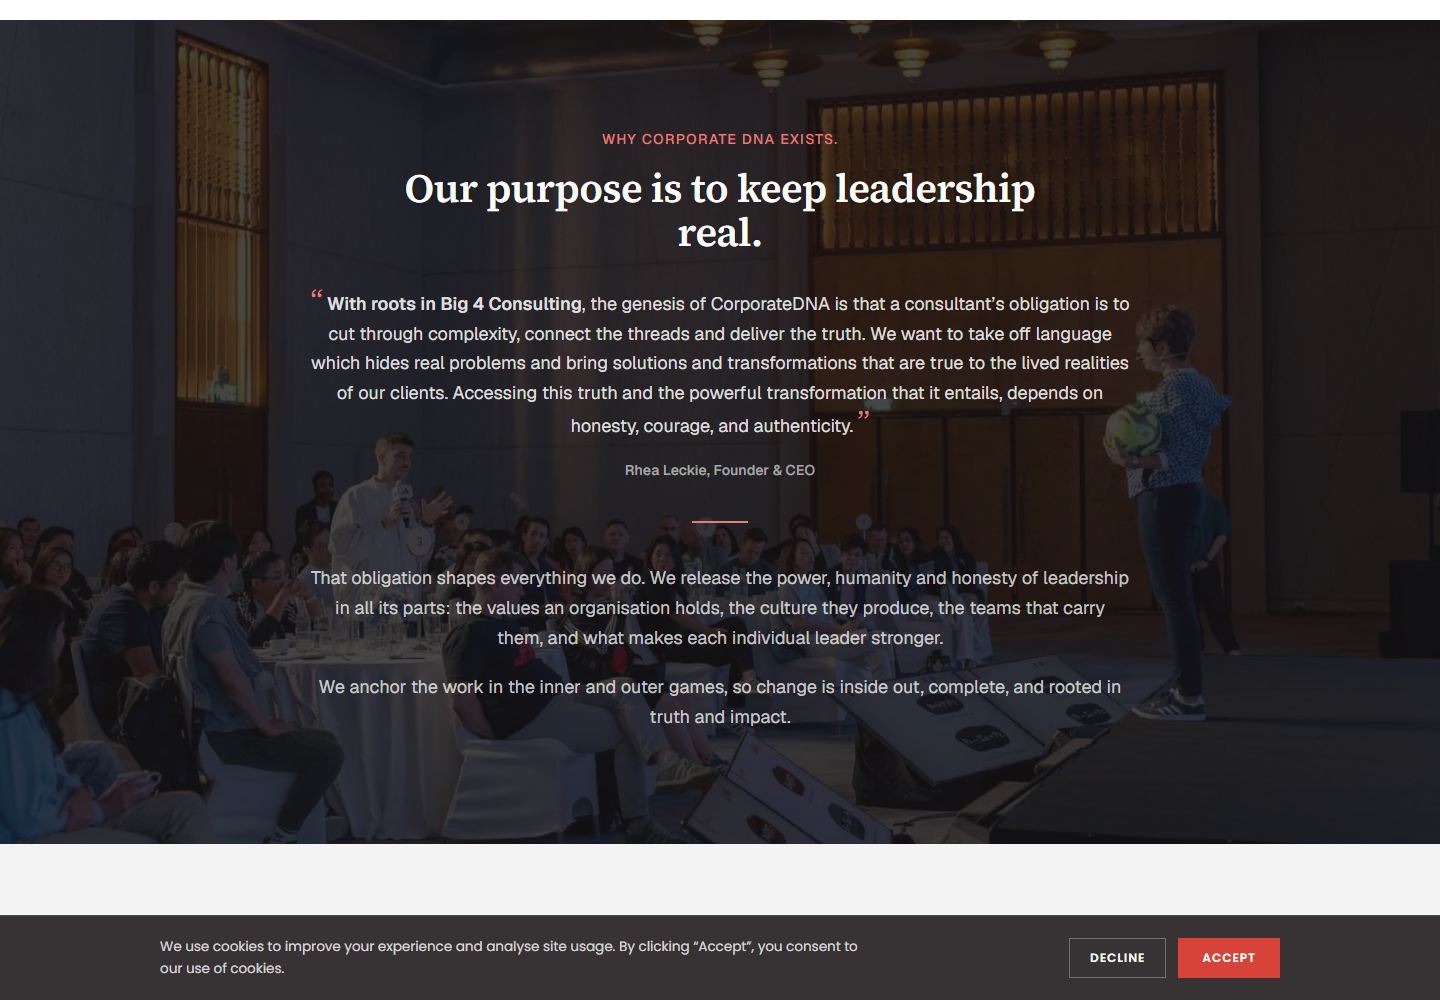
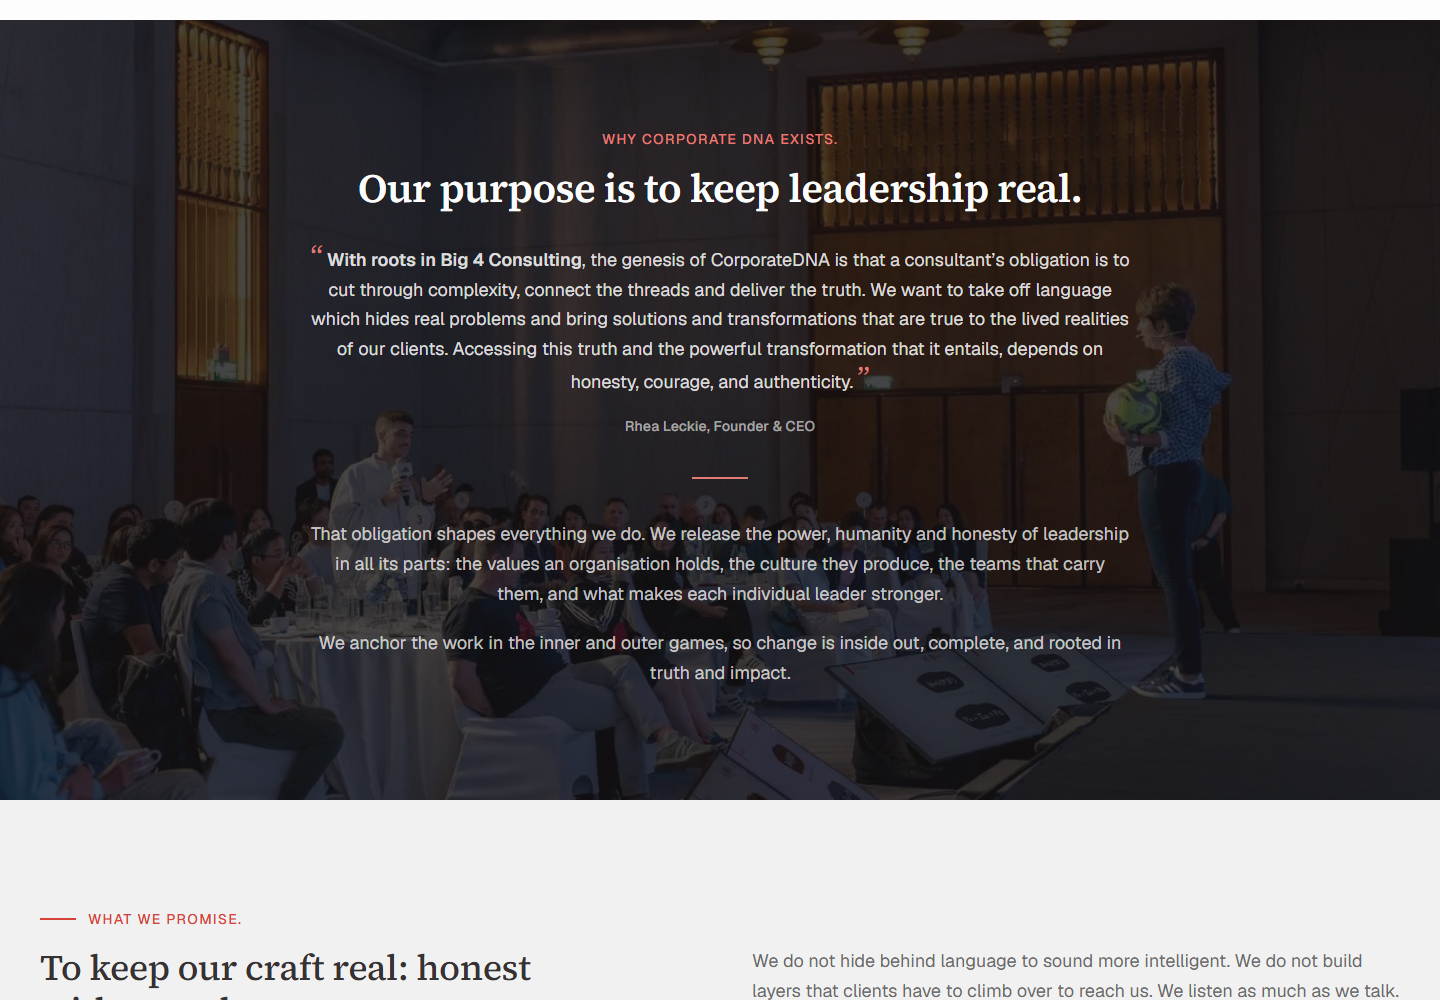
feat(about-v2): the page ends on the team, in the dark, and the purpose title holds one line
Three client changes from the end of 09-09.

The purpose title stops breaking. Measured, the sentence needs 744px on one
line and the h2 was capped at 720 — it broke by 24 pixels and left "real."
alone on the second line. The cap goes to 820px, which is the container's full
width, and the last two words are tied with whitespace-nowrap so the screens
that still wrap take two words down rather than one. One line from 1024 up.

The team section goes dark, and inherits the ending. Its eyebrow switches to
the light red: brand on ink is 2.87:1, below even the 3:1 bar for large text,
and no background fixes it. The outlined button inverts with it.

The closing band is removed. It carried "Let's make leadership real." and the
"Get in touch" button, and it was built from the client's own full-page image.
Worth naming plainly because nobody will remember later: About is now the only
page on the site that ends without a contact call. The Services outline records
that the shared band runs on every other page. Contact is still reachable — the
line at the foot of the offices, the button in the menu — it just stopped being
the last thing the page says.

The outline's own Block 7 still has not arrived; all that ever came of it was a
field list with no copy. The note left in its place says where it goes if it
turns up.

The Guli sheet is brought back in line: it was describing dark pillars, the
purpose glass panel, a single-column promise and a closing band, none of which
[…]

diff --git a/app/about-v2/page.tsx b/app/about-v2/page.tsx
@@ -1947,19 +1947,19 @@ export default async function AboutV2Page() {
           BOTÃO DE CONTORNO, não sólido. O sólido vermelho é da faixa logo
           abaixo, que é a ação principal. Dois preenchidos seguidos anulam a
           hierarquia — este é o caminho lateral, aquele é o convite. */}
-      <section id="people" className="bg-white">
+      <section id="people" className="bg-ink text-white">
         <div className="mx-auto max-w-[1440px] px-6 py-16 md:px-10 md:py-20">
-          <TypeLabel>The people behind it</TypeLabel>
-          <h2 className="max-w-[680px] font-serif text-[30px] font-medium leading-[1.15] tracking-[-0.6px] text-ink md:text-[38px]">
+          <TypeLabel onDark>The people behind it</TypeLabel>
+          <h2 className="max-w-[680px] font-serif text-[30px] font-medium leading-[1.15] tracking-[-0.6px] text-white md:text-[38px]">
             Identity is what the team does under pressure.
           </h2>
-          <p className="mt-5 max-w-[620px] text-[17px] leading-[1.7] text-muted">
+          <p className="mt-5 max-w-[620px] text-[17px] leading-[1.7] text-white/70">
             Our leadership, our global faculty and the regions we deliver from
             now have an area of their own.
           </p>
           <Link
             href="/our-team"
-            className="group mt-8 inline-flex items-center gap-2 border border-ink px-7 py-3.5 text-[16px] font-medium text-ink transition-colors hover:bg-ink hover:text-white"
+            className="group mt-8 inline-flex items-center gap-2 border border-white/45 px-7 py-3.5 text-[16px] font-medium text-white transition-colors hover:border-white hover:bg-white hover:text-ink"
           >
             Meet the team
             {/* Mesma seta de 4px no hover dos outros dois botões da página. */}
@@ -1973,38 +1973,22 @@ export default async function AboutV2Page() {
         </div>
       </section>
 
-      {/* ── Block 7 · Fecho ───────────────────────────────────────────
-          O outline diz "seven blocks" e descreve seis: o corpo do sétimo não
-          veio no arquivo, sobrou só a linha de campos de CMS
-          (`repeatable link_card { heading, body, cta_label, cta_url }`), que
-          descreve cards de navegação e não a faixa da imagem.
+      {/* ⚠ A FAIXA DE FECHO SAIU em 09-09, a pedido do cliente. Era o Block 7:
+          fundo escuro, "Let’s make leadership real." e um botão "Get in touch".
 
-          Montado como está na imagem — assinatura, frase e um botão — porque é
-          a única versão do bloco que o cliente mandou. O `link_card` fica de
-          fora até o texto do bloco 7 chegar. */}
-      <section className="bg-ink text-white">
-        <div className="mx-auto flex max-w-[1440px] flex-col items-start gap-8 px-6 py-14 md:flex-row md:items-center md:justify-between md:px-10">
-          <p className="font-serif text-[28px] font-medium leading-[1.15] tracking-[-0.6px] md:text-[36px]">
-            Let’s make leadership real.
-          </p>
-          {/* Botão — Geist 500 a 16px, caixa baixa, sem espacejamento. Era
-              14px/600/maiúsculas. A caixa alta some pelo mesmo motivo que sumiu
-              do menu: é o que dá voz de barra corporativa a um texto de três
-              palavras.
+          CONSEQUÊNCIA, para quem for cobrar depois: a About passou a ser a única
+          página do site que termina SEM chamada de contato. O outline de Services
+          registra que a faixa compartilhada roda em todas as outras. O contato
+          continua alcançável — pelo link "Contact" no fim dos escritórios e pelo
+          botão do menu — mas deixou de ser o último gesto da página.
 
-              Os 0,5px de espacejamento que a grade pede saíram depois de medir
-              o botão da própria Explore: 16px, peso 500, `letter-spacing:
-              normal`. Os dois botões da página — este e o Contact do menu —
-              seguem o mesmo par, que antes não tinham. */}
-          <Link
-            href="/#contact"
-            className="inline-flex flex-none items-center gap-2 bg-brand px-7 py-3.5 text-[16px] font-medium text-white transition-colors hover:bg-brand-dark"
-          >
-            Get in touch
-            <span aria-hidden>→</span>
-          </Link>
-        </div>
-      </section>
+          O que fecha a página agora é a seção "The people behind it", que passou
+          a fundo escuro no mesmo pedido. O escuro no fim continua existindo; o
+          que mudou é que ele carrega o time em vez da chamada comercial.
+
+          O bloco 7 do OUTLINE, esse, nunca chegou: dele veio só a linha de campos
+          de CMS (`repeatable link_card`), sem título e sem texto. Se aquele texto
+          aparecer, é aqui que ele entra. */}
       </main>
       <SiteFooter />
     </div>

diff --git a/docs/revisao-guli-about-09-09-2026.md b/docs/revisao-guli-about-09-09-2026.md
@@ -30,7 +30,7 @@ for ok, o que ajuda é *o que* está errado, não a solução: a gente aplica.
 | 5. Our Values | | |
 | 6. Our Regions | | |
 | 7. The people behind it | | |
-| 8. Fecho | | |
+| 8. Fecho (removido) | | |
 
 ---
 
@@ -97,10 +97,11 @@ fechada.
 
 ### Alternância de fundos
 
-`ink` → `white` → `ink com foto` → `paper` → `white` → `white` → `paper` → `white` → `ink`.
+`ink` → `white` → `ink com foto` → `paper` → `white` → `white` → `paper` → `ink`.
 
 **Aberto:** a sequência tem dois `white` seguidos no meio (Values e o cabeçalho de Regions).
-Funciona porque a segunda é curta, mas é o ponto mais frágil do ritmo.
+Funciona porque a segunda é curta, mas é o ponto mais frágil do ritmo. A página fecha em `ink`
+desde 09/09, quando a faixa de fecho saiu e a seção do time herdou o escuro — ver a seção 8.
 
 ---
 
@@ -296,8 +297,9 @@ fotografia do bloco 2 navegar em silêncio, a rota fica aqui, rotulada, no fim d
   disputam o mesmo clique.
 - **Botão de contorno**, não sólido. O sólido vermelho é da faixa logo abaixo, que é a ação
   principal.
-- **Fundo branco**, e não `paper` como no original: o bloco anterior já é `paper`, e dois
-  seguidos viram uma faixa só.
+- **Fundo escuro**, a pedido do cliente em 09/09. Era branco. Como a faixa de fecho saiu no
+  mesmo pedido, é esta seção que agora encerra a página — e o escuro no fim continua existindo,
+  só que carregando o time.
 - **Alinhado à esquerda em 1440**, e não na coluna centrada de 820px do original.
 
 **Aberto — e é o ponto mais fraco da página:** a metade direita fica vazia. Numa tela de 1440 o
@@ -306,23 +308,23 @@ o botão para a margem direita — mas isso repete a estrutura da faixa logo aba
 
 ---
 
-## 8. Fecho
+## 8. Fecho — removido
 
-![Fecho](revisao-guli-about/9-fecho.png)
+A página tinha uma faixa final escura com *"Let's make leadership real."* e um botão
+"Get in touch", montada a partir da imagem da Maliha. **O cliente pediu para tirar em 09/09.**
 
-**De onde veio:** a imagem da Maliha. Assinatura, frase e um botão.
+**Consequência, e ela é sua para avaliar:** a About passou a ser a única página do site que
+termina **sem chamada de contato**. O outline de Services registra que a faixa compartilhada
+roda em todas as outras. O contato continua alcançável — pelo link "Contact" no fim dos
+escritórios e pelo botão do menu — mas deixou de ser o último gesto da página.
 
-**⚠ Aqui o documento e a imagem descrevem coisas diferentes, e o documento está incompleto.**
-O outline diz "seven blocks" e descreve seis. Do sétimo sobrou só a linha de campos:
-`repeatable link_card { heading, body, cta_label, cta_url }` — cards de navegação, sem título e
-sem texto. A imagem mostra a faixa de fecho. Não é um contra o outro: são duas coisas
-diferentes, e uma delas não veio inteira.
+O escuro no fim não se perdeu: a seção 7 passou a fundo escuro no mesmo pedido. O que mudou é
+que o fim da página carrega o time em vez da chamada comercial.
 
-Montamos a versão da imagem porque era a única completa. Os `link_card` ficam de fora até o
-texto chegar.
-
-**Aberto:** quando o texto do bloco 7 chegar, os cards entram **junto** com a faixa ou **no
-lugar** dela.
+**⚠ O bloco 7 do outline continua sem chegar.** Dele veio só a linha de campos de CMS —
+`repeatable link_card { heading, body, cta_label, cta_url }`, cards de navegação sem título e
+sem texto. A faixa que saiu vinha da imagem, não desse campo. Se o texto aparecer, é aqui que
+ele entra.
 
 ---
 
